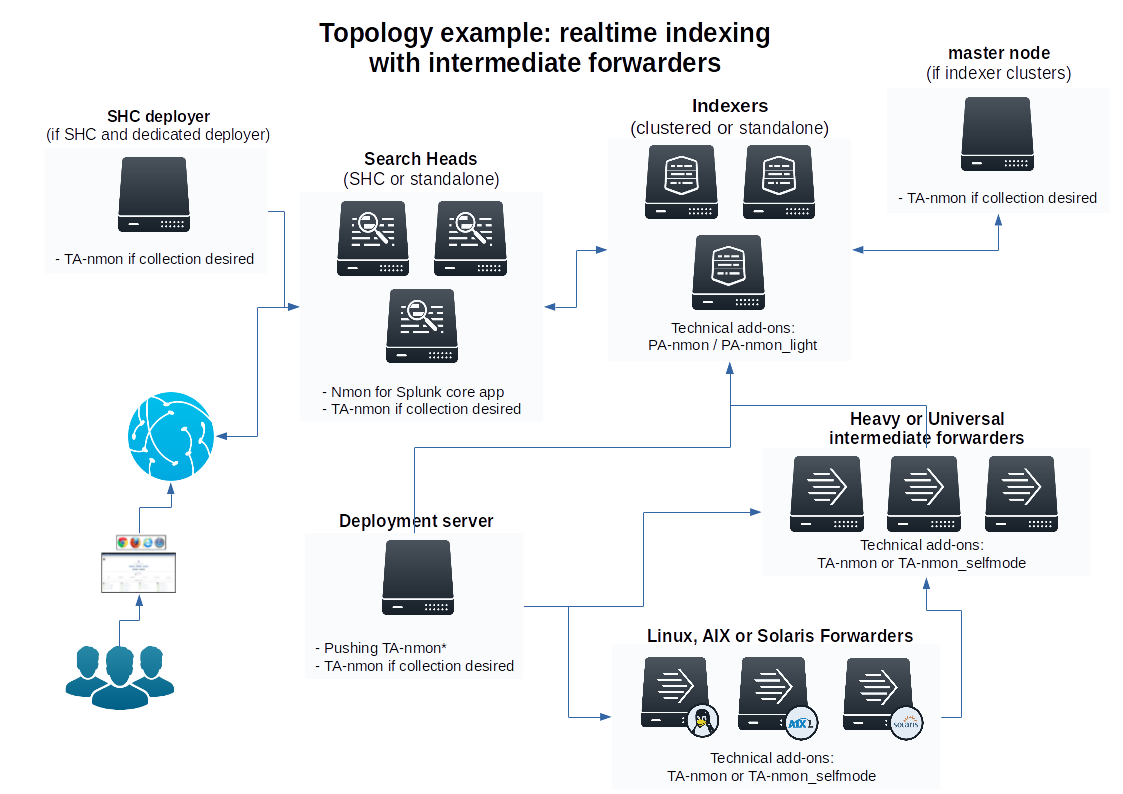
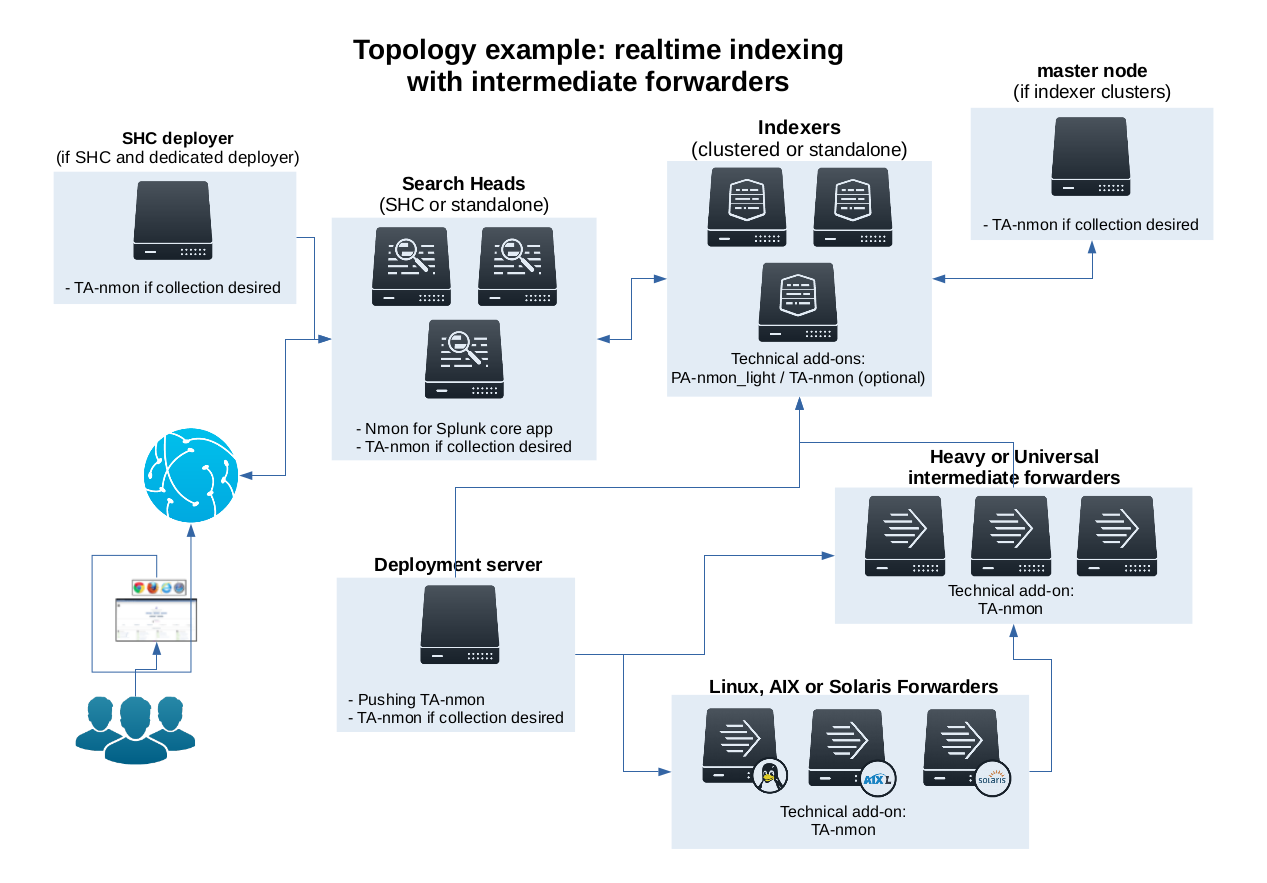
documentation update

diff --git a/docs/deployment_matrix.rst b/docs/deployment_matrix.rst
@@ -22,35 +22,35 @@ What goes where ?
 
 **Standalone deployment: A single Splunk instance does all**
 
-+------------------------+------------+---------------+---------------+
-| Splunk Instance        | Core App   | PA-nmon       | TA-nmon       |
-| (role)                 |            | (and derived) |               |
-+========================+============+===============+===============+
-| Standalone             |     X      |               | X (optional)  |
-+------------------------+------------+---------------+---------------+
++--------------------------------------------+---------------------+---------------------+---------------------+
+| Splunk Instance                            | Core App            | PA-nmon_light       | TA-nmon             |
+| (role)                                     |                     |                     |                     |
++============================================+=====================+=====================+=====================+
+| Standalone                                 |     X               |    X (optional)     |    X (optional)     |
++--------------------------------------------+---------------------+---------------------+---------------------+
 
-*The TA-nmon provides nmon performance and configuration collection for the host than runs the add-on, which is optional*
+*The TA-nmon provides performance and configuration collection for the host than runs the add-on, which is optional*
 
 **Distributed deployment:**
 
-+--------------------------------------------+------------+---------------------------+---------------------+
-| Splunk Instance                            | Core App   | PA-nmon_light             | TA-nmon             |
-| (role)                                     |            |                           |                     |
-+============================================+============+===========================+=====================+
-| Search head (single instance or clustered) |     X      |                           |    X (optional)     |
-+--------------------------------------------+------------+---------------------------+---------------------+
-| Indexer (single instance or clustered)     |            |    X                      |                     |
-+--------------------------------------------+------------+---------------------------+---------------------+
-| Master node                                |            |                           |    X (optional)     |
-+--------------------------------------------+------------+---------------------------+---------------------+
-| Deployment servers                         |            |                           |    X (optional)     |
-+--------------------------------------------+------------+---------------------------+---------------------+
-| Heavy Forwarder                            |            |                           |    X                |
-+--------------------------------------------+------------+---------------------------+---------------------+
-| Universal Forwarder                        |            |                           |    X                |
-+--------------------------------------------+------------+---------------------------+---------------------+
++--------------------------------------------+---------------------+---------------------+---------------------+
+| Splunk Instance                            | Core App            | PA-nmon_light       | TA-nmon             |
+| (role)                                     |                     |                     |                     |
++============================================+=====================+=====================+=====================+
+| Search head (single or clustered)          |     X               |                     |    X (optional)     |
++--------------------------------------------+---------------------+---------------------+---------------------+
+| Indexer (single or clustered)              |                     |    X                |                     |
++--------------------------------------------+---------------------+---------------------+---------------------+
+| Master node                                |                     |                     |    X (optional)     |
++--------------------------------------------+---------------------+---------------------+---------------------+
+| Deployment servers                         |                     |                     |    X (optional)     |
++--------------------------------------------+---------------------+---------------------+---------------------+
+| Heavy Forwarder                            |                     |                     |    X                |
++--------------------------------------------+---------------------+---------------------+---------------------+
+| Universal Forwarder                        |                     |                     |    X                |
++--------------------------------------------+---------------------+---------------------+---------------------+
 
-*The TA-nmon provides nmon performance and configuration collection for the host than runs the add-on, which is optional*
+*The TA-nmon provides performance and configuration collection for the host than runs the add-on, which is optional*
 
 **FAQ:**
 
@@ -58,4 +58,4 @@ What goes where ?
 
 The PA-nmon_light does not contain any binaries, scripts or inputs. It is designed to be installed on indexers. (standalone or clustered)
 
-This package will define the default "nmon" index and the relevant configuration for indexing time.
+This package will define the default "nmon" index and the relevant configuration items at indexing time.

diff --git a/docs/topologies.rst b/docs/topologies.rst
@@ -6,9 +6,9 @@ Deployment topologies
 1. Splunk native deployment
 ---------------------------
 
-**There are multiple ways to deploy and use the Nmon for Splunk App, the first thing you need to remember is that the App can globally operate in 2 different modes, as follows:**
+**There are different ways to deploy and use the Nmon for Splunk App, basically the application works in 2 modes:**
 
-* Real Time: Nmon raw data is read while the nmon file is on process (the nmon instance that holds the file is currently running and periodically updating it)
+* Real Time: An nmon process runs on the server and generates performance and configuration for the host, Splunk retrieves, transforms and indexes the data using the TA-nmon
 
 * Cold Mode: The Application is being used to manage collection of nmon raw files generated out of Splunk (nmon instances have terminated and files are closed)
 
@@ -16,13 +16,13 @@ These deployment scenarios are detailed in the deployment section, as in an intr
 
 **Real time deployment scenarios:**
 
-This is an example of deployment for standard scenario with multiple *nix clients running the addon "TA-nmon", managed trough a deployment server, indexing Nmon data into a Splunk indexer cluser running the addon "PA-nmon", exploiting Nmon data in a Search Head cluster running the core "nmon" application
+This is an example of deployment for standard scenario with multiple *nix clients running the addon "TA-nmon", managed trough a deployment server, indexing Nmon data into a Splunk indexer cluser running the addon "PA-nmon_light" and optionally the "TA-nmon", exploiting Nmon data in a Search Head cluster running the core "nmon" application and optionally the "TA-nmon" addon.
 
 .. image:: img/topology1_realtime_example.png
    :alt: topology1_realtime_example.png
    :align: center
 
-This is an example of deployment for standard scenario with multiple *nix clients running the addon "TA-nmon" and sending data to intermediate Heavy Forwarders, all managed trough a deployment server, indexing Nmon data into a Splunk indexer cluser running the addon "PA-nmon", exploiting Nmon data in a Search Head cluster running the core "nmon" application
+This is an example of deployment for standard scenario with multiple *nix clients running the addon "TA-nmon" and sending data to intermediate Heavy or Universal Forwarders, all managed trough a deployment server, indexing Nmon data into a Splunk indexer cluser running the addon "PA-nmon_light" and optionally the "TA-nmon", exploiting Nmon data in a Search Head cluster running the core "nmon" application and optionally the "TA-nmon" addon.
 
 .. image:: img/topology2_realtime_example.png
    :alt: topology2_realtime_example.png
@@ -30,7 +30,7 @@ This is an example of deployment for standard scenario with multiple *nix client
 
 **Cold data deployment scenario:**
 
-This is an example of deployment for standard scenario with a single Splunk forwarder instance (Universal or Heay) running the addon "TA-nmon", indexing Nmon data from central NFS repositories into a Splunk indexer cluser running the addon "PA-nmon", exploiting Nmon data in a Search Head cluster running the core "nmon" application
+This is an example of deployment for standard scenario with a single Splunk forwarder instance (Universal or Heavy) running the addon "TA-nmon", indexing Nmon data from central NFS repositories into a Splunk indexer cluser running the addon "PA-nmon_light" and optionally the "TA-nmon", exploiting Nmon data in a Search Head cluster running the core "nmon" application and optionally the TA-nmon addon.
 
 .. image:: img/topology3_colddata_example.png
    :alt: topology3_colddata_example.png
@@ -42,12 +42,12 @@ This is an example of deployment for standard scenario with a single Splunk forw
 
 **Additionally and since the version 1.6.14, it is possible to use Syslog as the transport layer associated with a third party package called "nmon-logger"**
 
-This deployment topology offers 100% of application functionality without any deployment of Universal Forwarders on end servers, using rsyslog or syslog-ng.
-Such a deployment will for example answers to people that cannot or don't want to install any third party agent.
+This deployment topology provides all of application functionality without any deployment of Universal Forwarders on end servers, using rsyslog or syslog-ng.
+Such a deployment answers the need for people that cannot or do not want to install any third party agent.
 
 **The nmon-logger package is available for download in GitHub:** https://github.com/guilhemmarchand/nmon-logger
 
-Such deployment will use and require and/or recommended:
+The deployment will use and require and/or recommended:
 
 * nmon-logger
 
@@ -57,7 +57,7 @@ Such deployment will use and require and/or recommended:
 
 * logrotate
 
-Note that this deployment scenario will be recommended mostly with a modern Linux deployment.
+Note that this deployment scenario would be recommended mostly with a modern Linux deployment.
 Although all pieces of software should work fine too on AIX and Solaris, this requires quite up to date versions (for rsyslog / syslog-ng), which could be complex on older OS.
 
 **Example 1: Splunk Universal or Heavy forwarder installed on main syslog-ng collectors:**

diff --git a/docs/introduction.rst b/docs/introduction.rst
@@ -34,9 +34,9 @@ nmon is also very often used as a Capacity Planning and Performance tool by runn
 * http://nmon.sourceforge.net/pmwiki.php
 * http://www.geckotechnology.com/fr/sarmon
 
-Analysing NMON csv data is not easy because it has a very specific format Splunk cannot directly manage. (One big problem stands in the event time stamp identification which is very uncommon and defined by a non time stamp pattern)
+Analysing NMON csv data is not easy because it has a very specific format Splunk cannot directly manage. (one big problem stands in the event time stamp identification which is very uncommon and defined by a non time stamp pattern)
 
-This is why i decided to develop this App, based on my own professional experience in Unix systems Capacity Planning, to provide to anyone interested a powerful too to Analyse NMON data with an Enterprise Class Application.
+This is why I decided to develop this App, based on my own professional experience in Unix systems Capacity Planning, to provide to anyone interested a powerful too to Analyse NMON data with an Enterprise Class Application.
 
 ************
 How it works
@@ -47,7 +47,7 @@ How it works
 * The Nmon core application contains all the views, data models, configurations and related objects
 * The TA-nmon which is the technical addon for the Nmon Performance application contains binaries and scripts to manage the nmon data
 * The TA-nmon once installed starts immediately to collect and transforms nmon performance and configuration data
-* The default configuration indexes data into the "nmon" index
+* The default configuration indexes data into the "nmon" index (by default)
 
 *********************
 Splunk Data structure

diff --git a/docs/binaries.rst b/docs/binaries.rst
@@ -5,7 +5,7 @@
 Scripts and Binaries
 ====================
 
-**Scripts and Binaries embedded in Nmon Performance Monitor**
+**Scripts and Binaries embedded in Nmon Performance Monitor:**
 
 *Since the major release V1.7.4, the core application does not bring any data generation related components*
 
